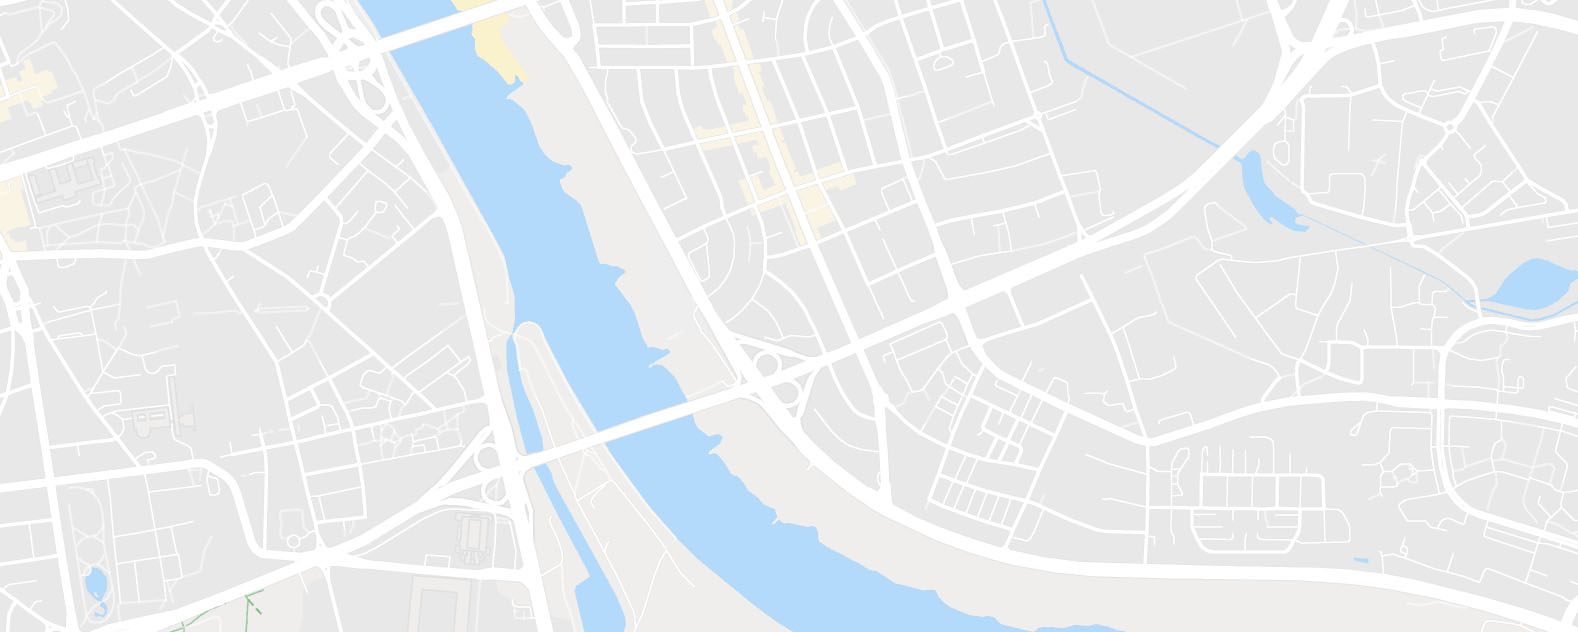
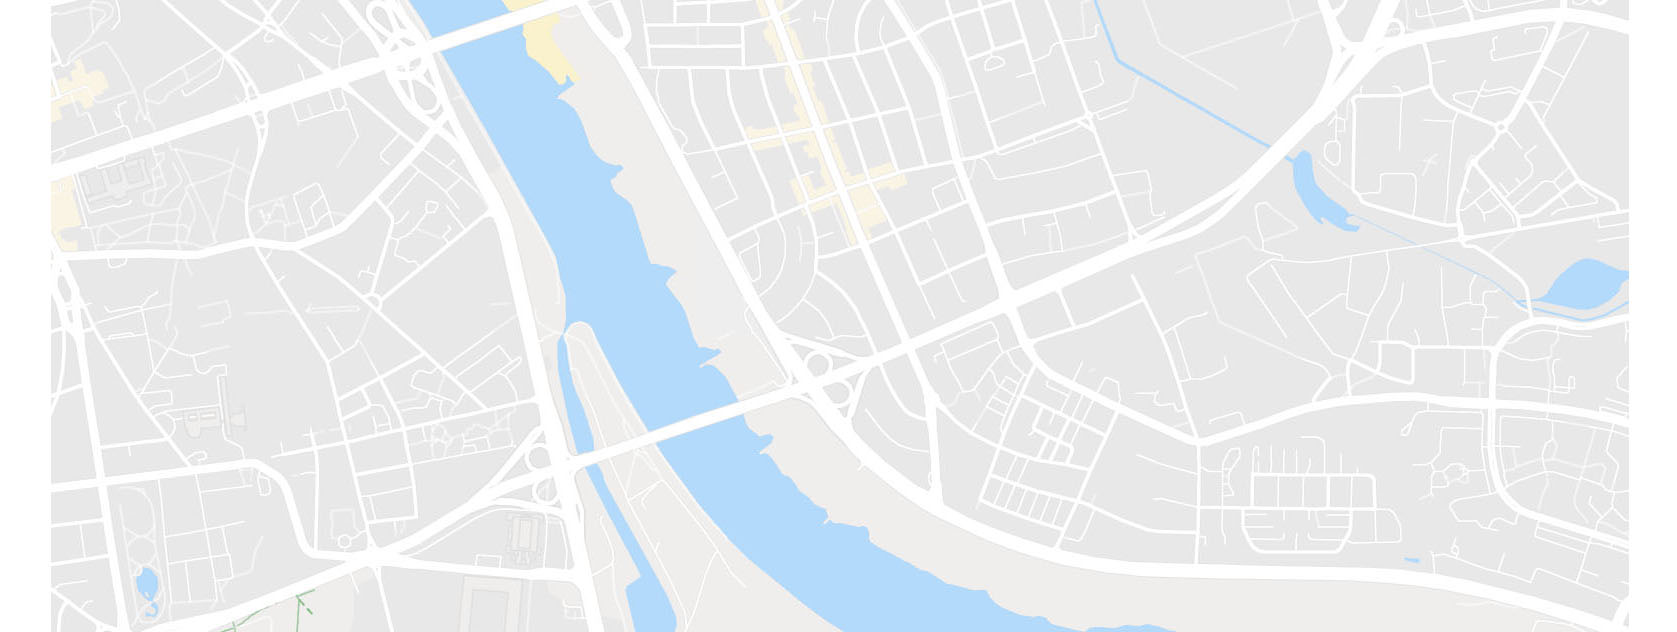
[UPDATE]Navigate to mappage when click on map picture

diff --git a/lxapp/lib/detail.dart b/lxapp/lib/detail.dart
@@ -1,6 +1,7 @@
 import 'dart:math';
 
 import 'package:flutter/material.dart';
+import 'package:flutter_login_page_ui/mapPage.dart';
 import 'package:flutter_login_page_ui/schesdulePage.dart';
 import 'package:flutter_screenutil/flutter_screenutil.dart';
 
@@ -160,10 +161,20 @@ class _DetailState extends State<Detail> {
                         
                         
                       ),
-                      Padding(
-                        padding: const EdgeInsets.only(left: 13.0, right: 13.0),
-                      child: Image.asset('assets/maps.jpg'),
+                      
+                      GestureDetector(
+                        
+                        child: Hero(
+                          tag: 'imageHero',
+                          child: Image.asset('assets/maps.jpg'),
+                        ),
+                        onTap: () {
+                                Route route = MaterialPageRoute(
+                                    builder: (context) => MapPage());
+                                Navigator.push(context, route);
+                              },
                       ),
+                      
                       ListTile(
                         
                         title: Text("F1, LX Building",
